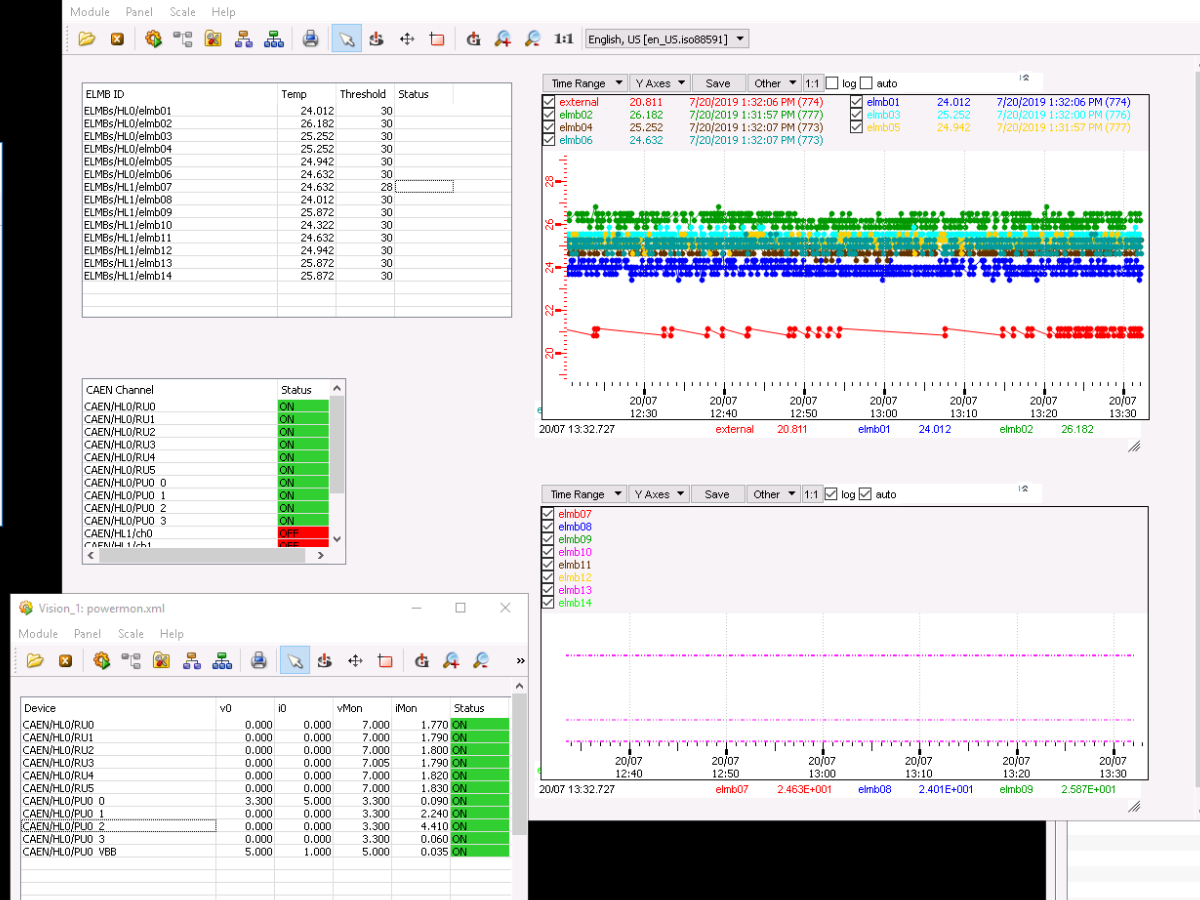
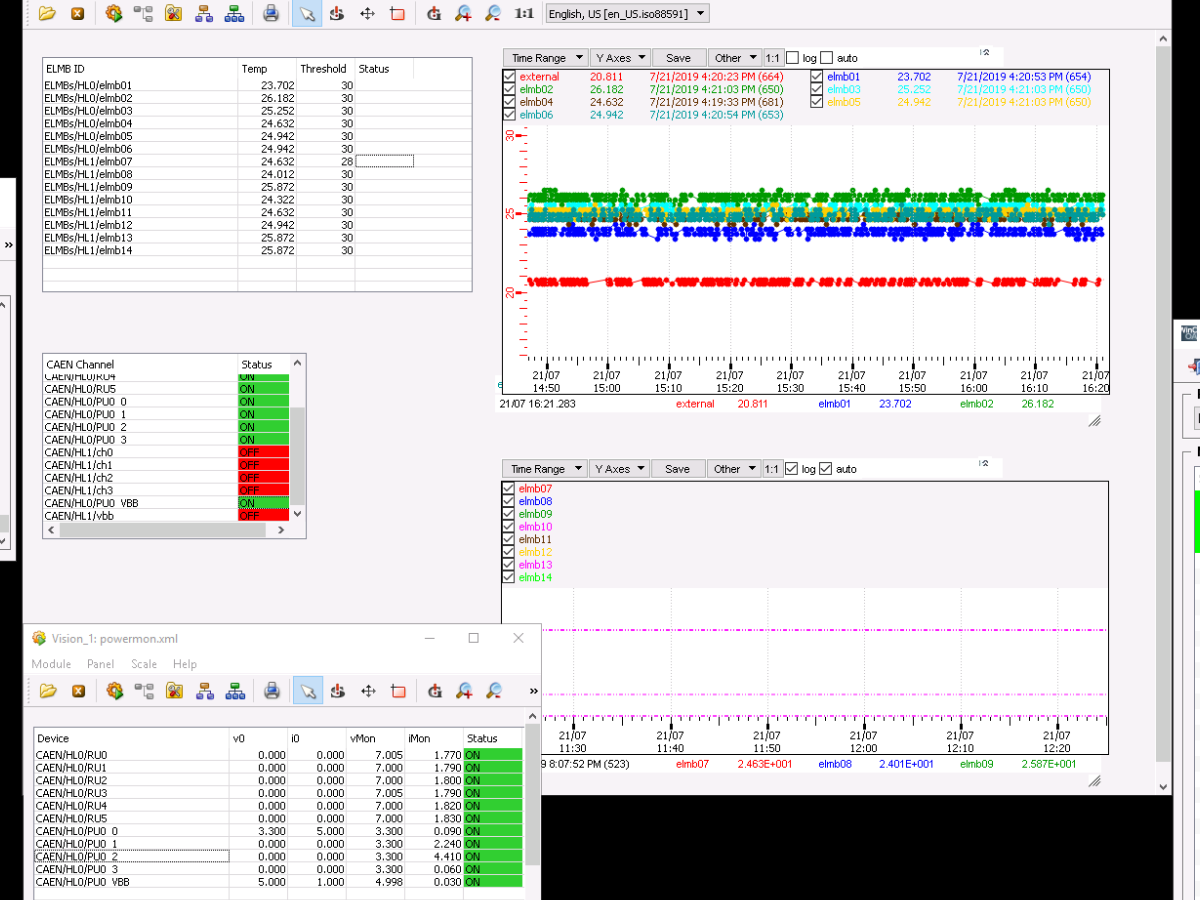
edited for current shift

Changed region(s): [[0.0, 0.0, 1.0, 1.0], [0.8325, 0.5289, 0.8633, 0.56]]

diff --git a/read_wincc.py b/read_wincc.py
@@ -2,7 +2,7 @@ from sys import argv
 import datetime
 from PIL import Image
 import pytesseract
-pytesseract.pytesseract.tesseract_cmd = r"C:\Program Files\Tesseract-OCR\tesseract.exe"
+# pytesseract.pytesseract.tesseract_cmd = r"C:\Program Files\Tesseract-OCR\tesseract.exe"
 
 current_date = datetime.datetime.today()
 
@@ -25,9 +25,16 @@ def write_to_file(log_file_name, values):
     log_file.write(str(current_date.year) + "-" + str(current_date.month) + "-" + str(current_date.day))
     log_file.write("    ")
     if current_date.hour > 9:
-        log_file.write(str(current_date.hour) + str(current_date.minute))
+        if current_date.minute > 9:
+            log_file.write(str(current_date.hour) + str(current_date.minute))
+        else:
+            log_file.write(str(current_date.hour) + "0" + str(current_date.minute))
+
     else:
-        log_file.write("0" + str(current_date.hour) + str(current_date.minute))
+        if current_date.minute > 9:
+            log_file.write(str(current_date.hour) + str(current_date.minute))
+        else:
+            log_file.write(str(current_date.hour) + "0" + str(current_date.minute))
     log_file.write("    ")
 
     for index, value in enumerate(values):
@@ -41,15 +48,15 @@ def write_to_file(log_file_name, values):
 values = []
 
 #all of these measurements are in pixels
-box_height = 14
-displacement = 12.5
-box_width = 29
+box_height = 13
+displacement = 12.6
+box_width = 34
 
 wincc = Image.open("wincc.png")
 
 #reading iMon
-imon_left = 420
-imon_top = 718
+imon_left = 430
+imon_top = 748
 for row in range(11):
     box_dim = [imon_left, imon_top + (displacement*row), imon_left + box_width, imon_top + (displacement*row) + box_height]
     box = wincc.crop(box_dim)
@@ -61,21 +68,21 @@ for row in range(11):
 values.insert(0, vbb)
 
 #reading external
-box_dim = [629, 94, 663, 108]
+box_dim = [579, 69, 624, 84]
 box = wincc.crop(box_dim)
+box.convert('L')
 box.save("external.png")
 value = remove_commas(pytesseract.image_to_string(box))
 values.append(value)
 
 #reading other temps
-temp_left = 298
-temp_top = 104
+temp_left = 261
+temp_top = 78
 box_width += 7
 box_height -= 0.03
 for row in range(6):
     box_dim = [temp_left, temp_top + (displacement*row), temp_left + box_width, temp_top + (displacement*row) + box_height]
     box = wincc.crop(box_dim)
-    box.save(f"box_{row}.png")
     value = remove_commas(pytesseract.image_to_string(box))
     values.append(value)
 
